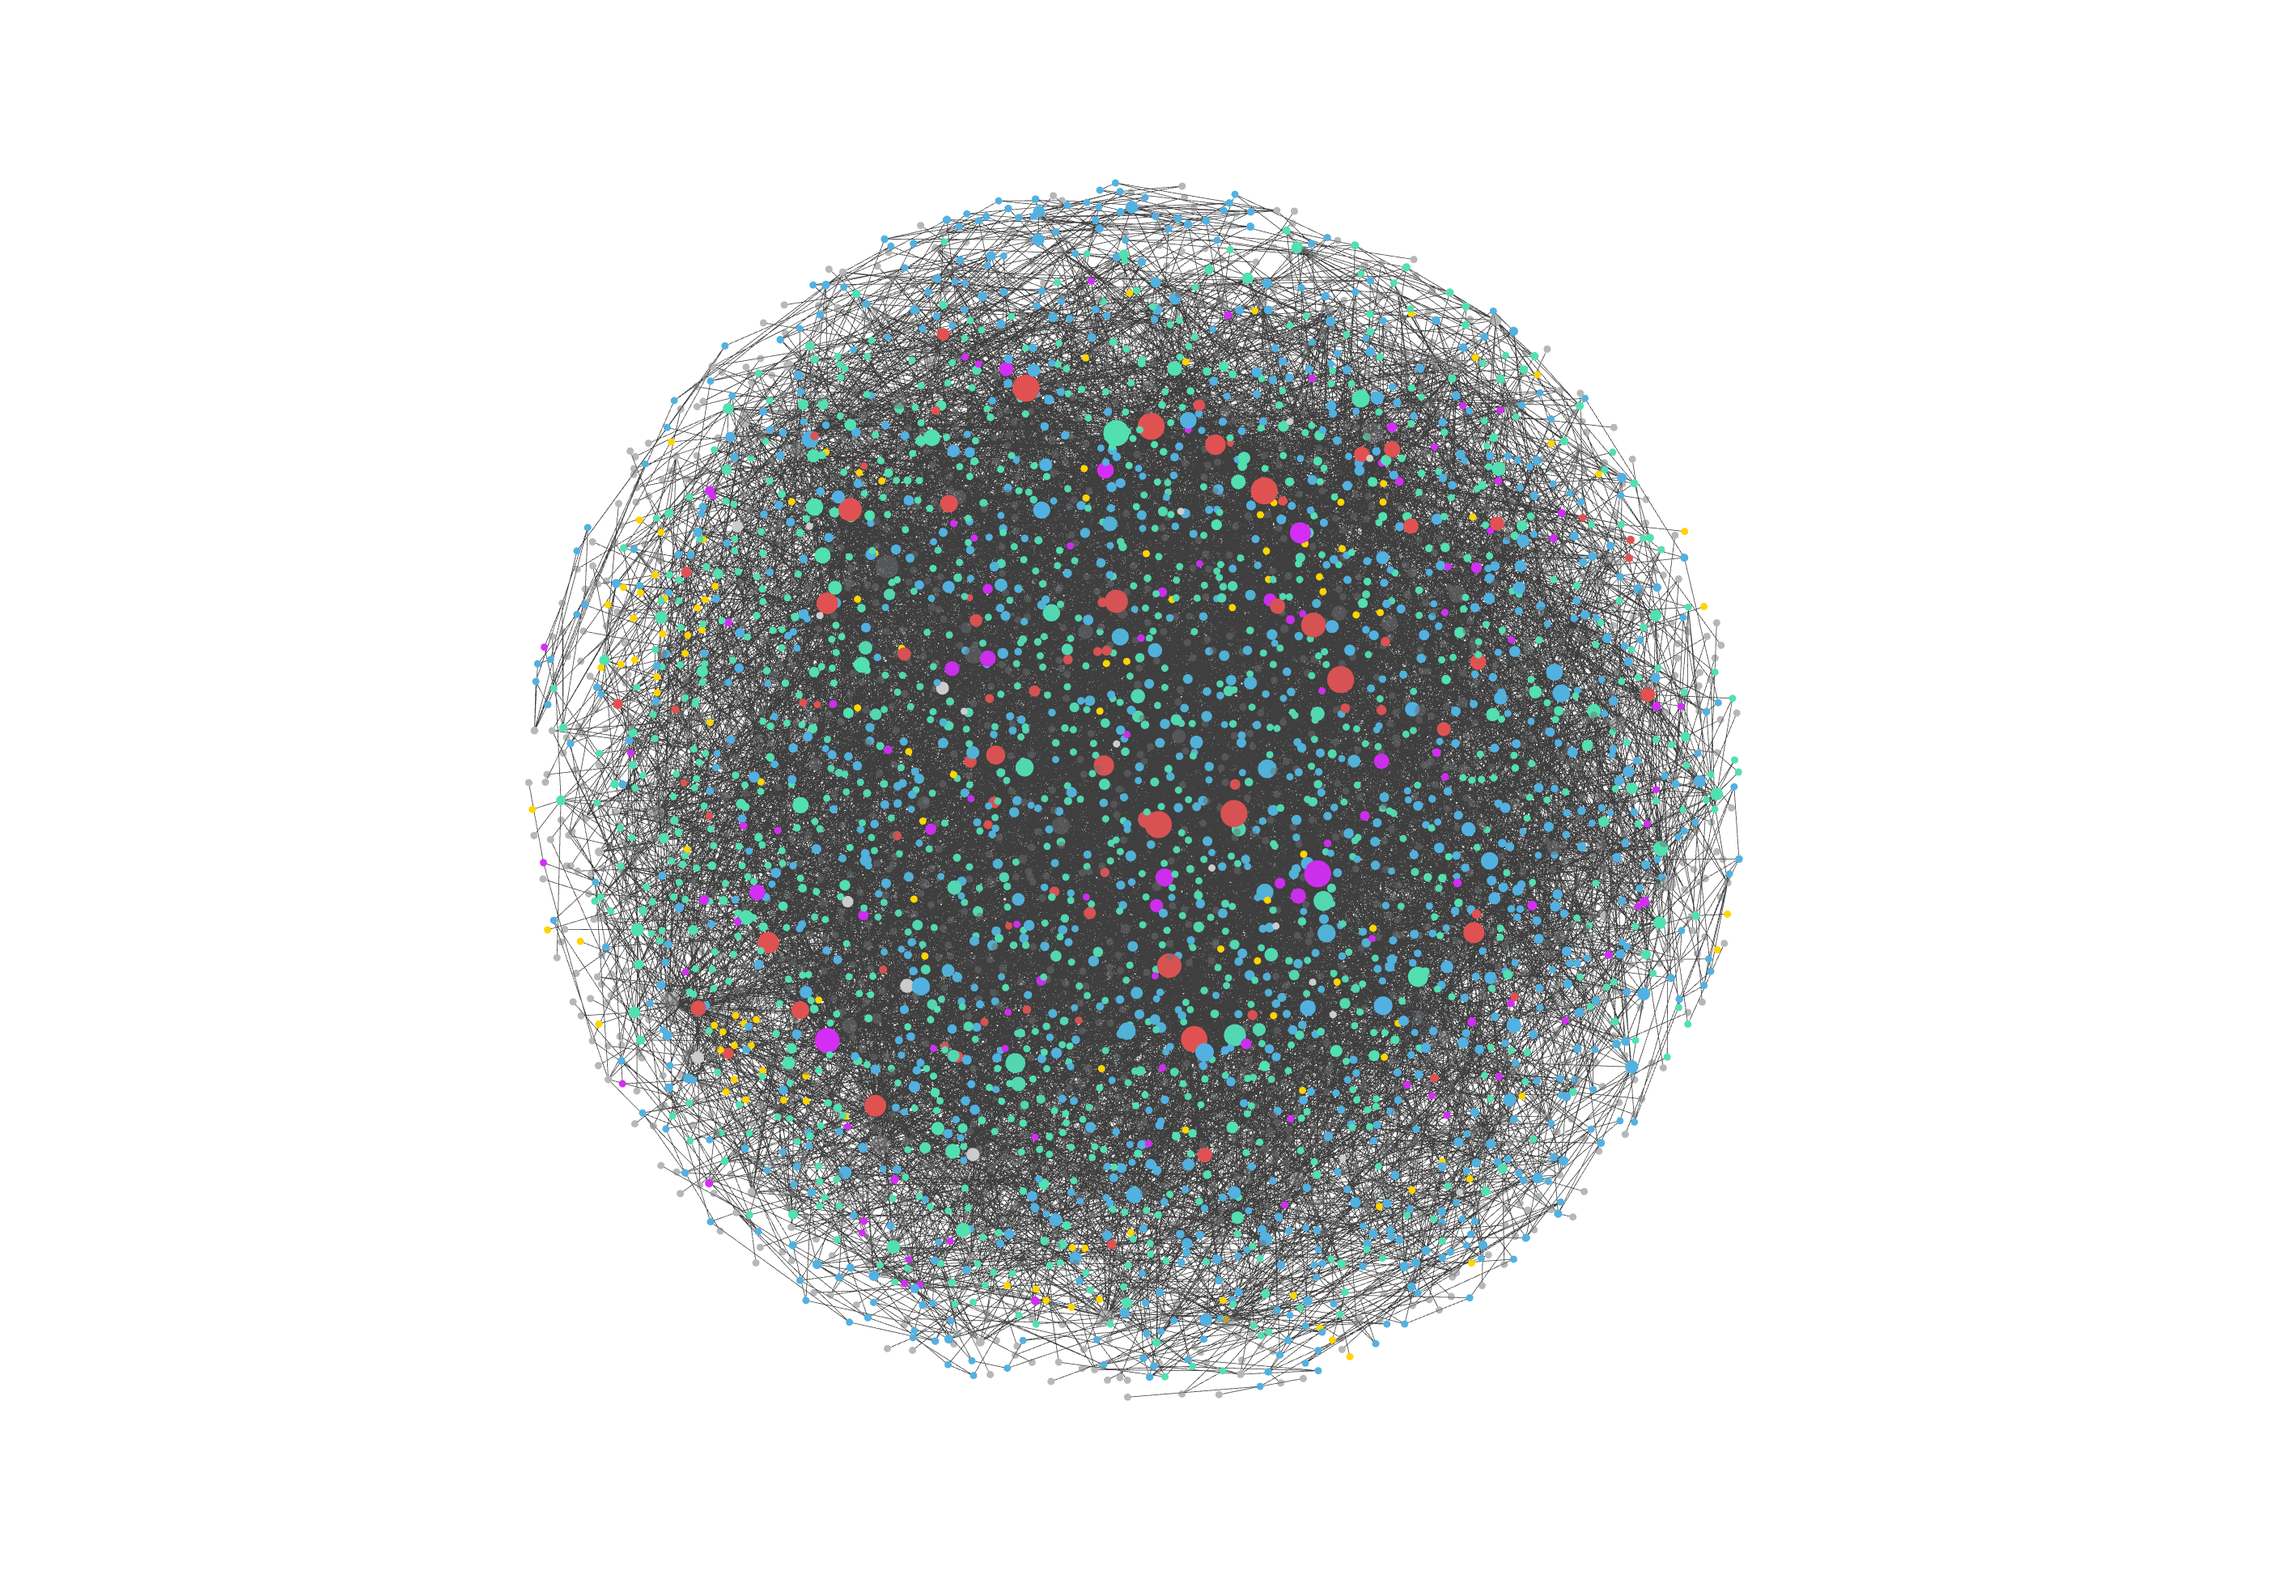
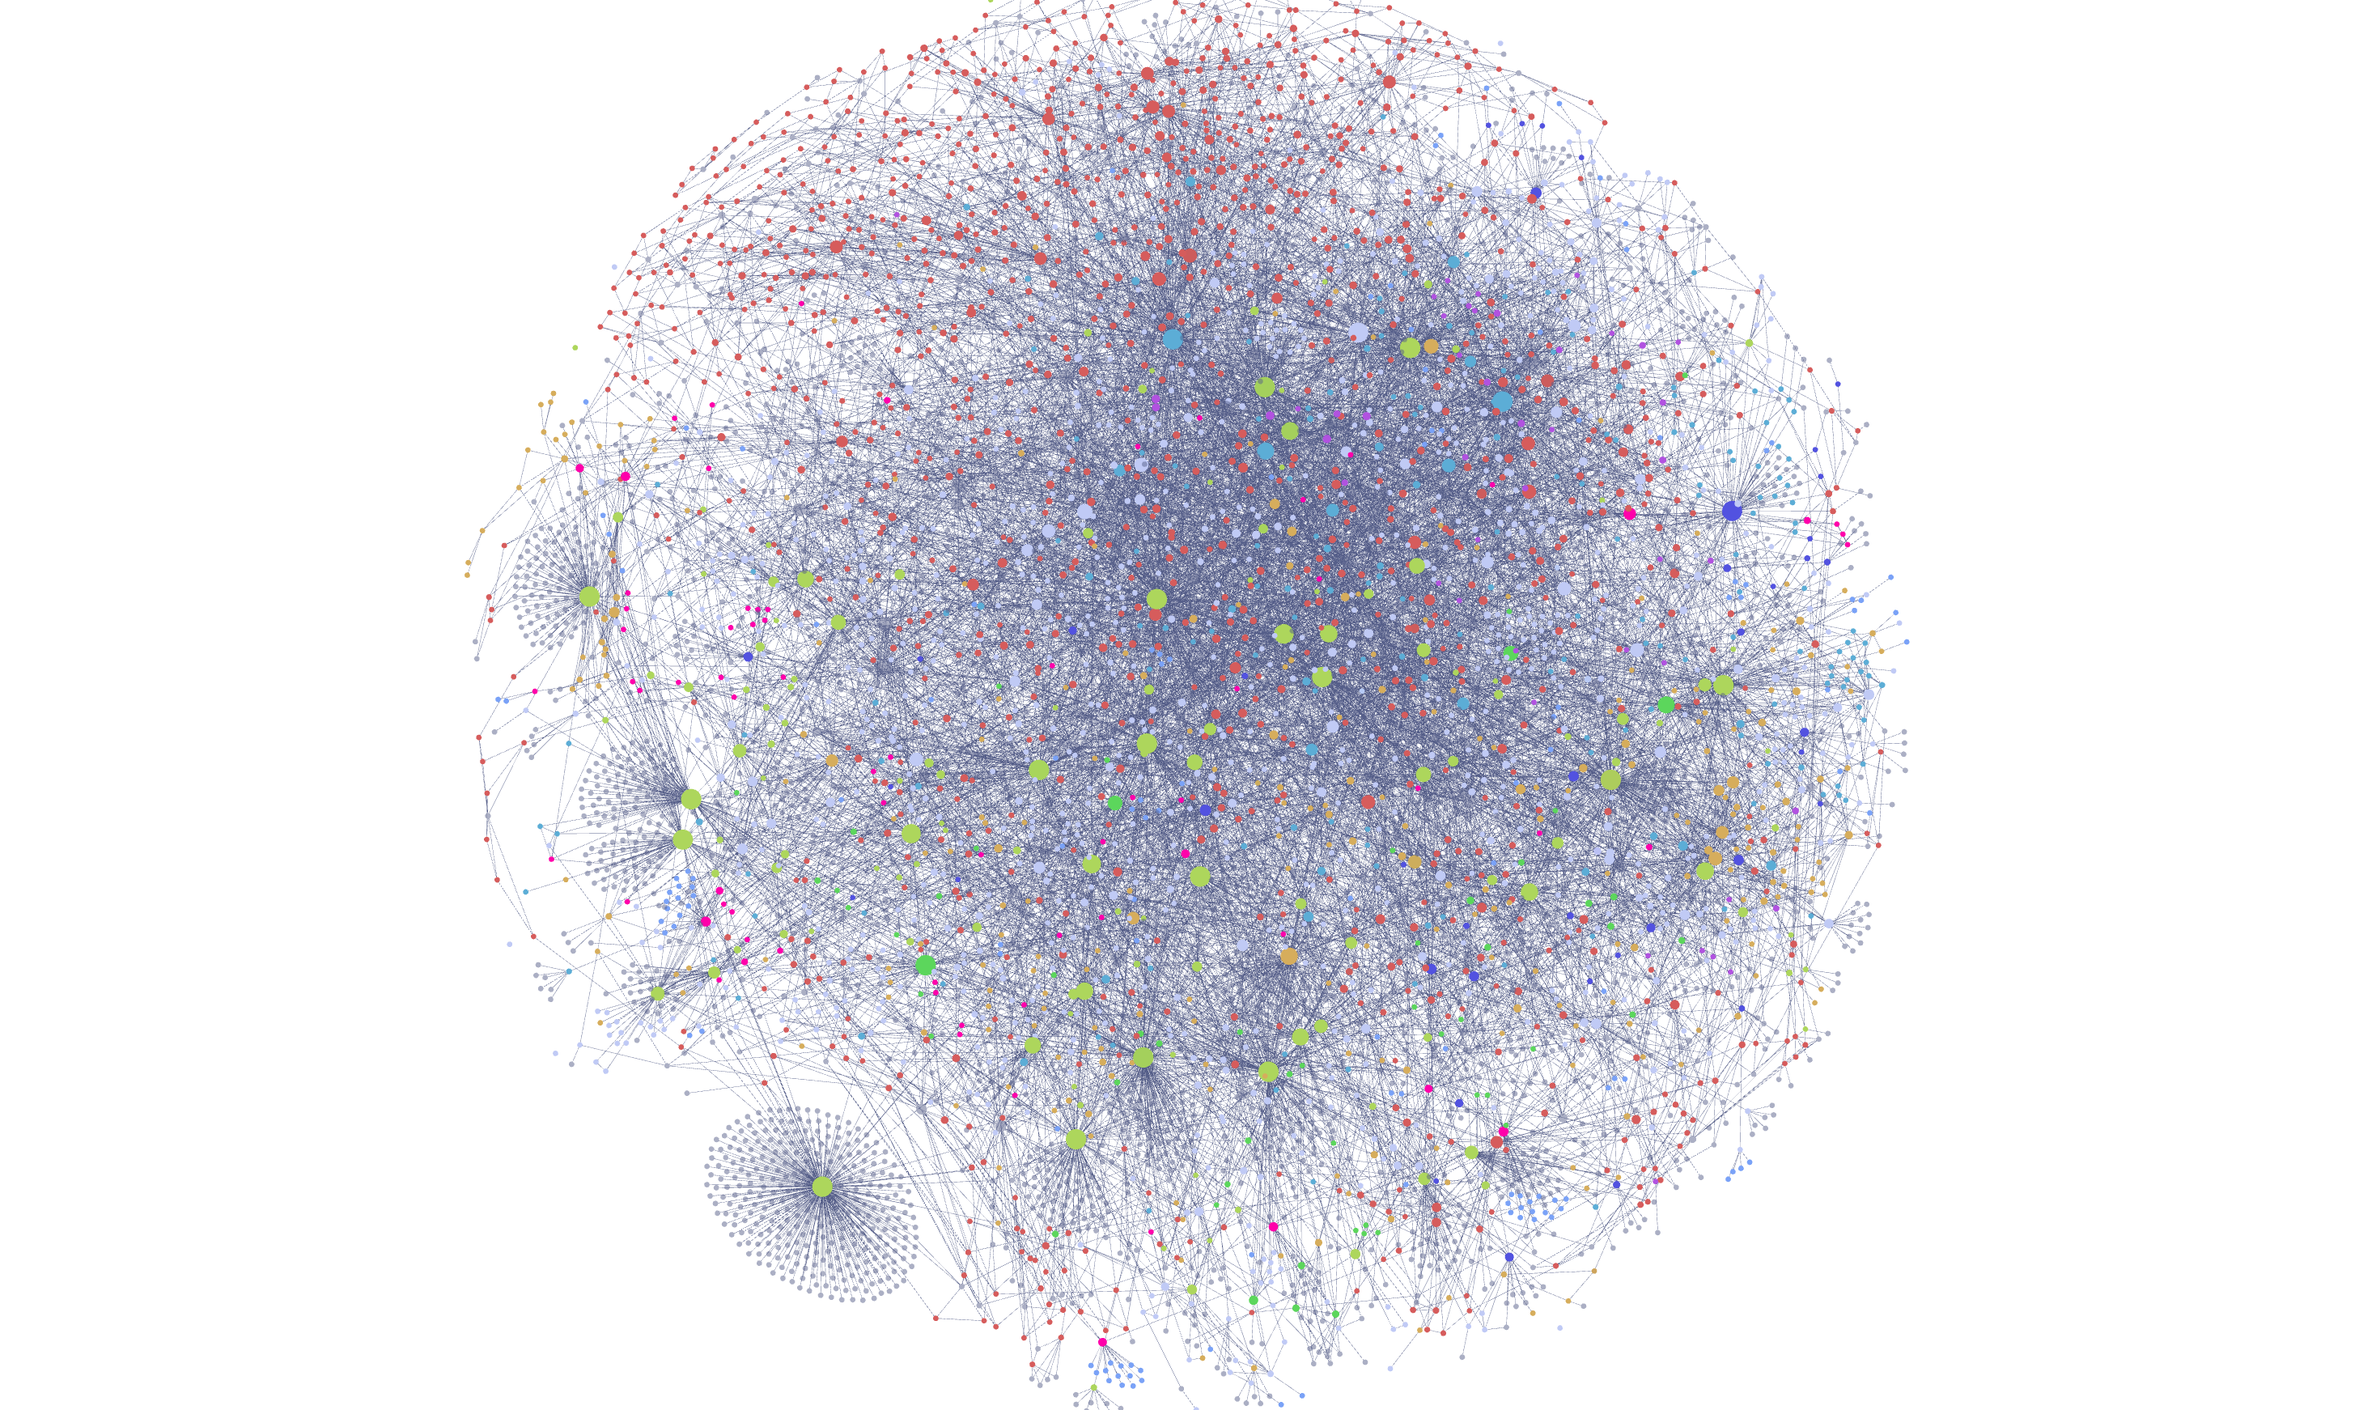
Update presentation

diff --git a/slides.md b/slides.md
@@ -29,7 +29,7 @@ mdc: true
 </br>
 </br>
 
-#### [Мишка на сервере](https://t.me/+3-r4TuXV_A0xNzgy) | [Михаил Савин](https://savinmi.ru) | 2024
+#### [Мишка на сервере](https://t.me/+3-r4TuXV_A0xNzgy) | [Михаил Савин](https://savinmi.ru) | 2025
 
 <!--
 Титульный слайд…

diff --git a/pages/00/whoami.md b/pages/00/whoami.md
@@ -12,4 +12,3 @@ image: /Avatar-sqaure-small.jpg
 - Любитель опенсорса
 - Пишу тексты больше, чем код
 - Видел как кричит ядро…
-
